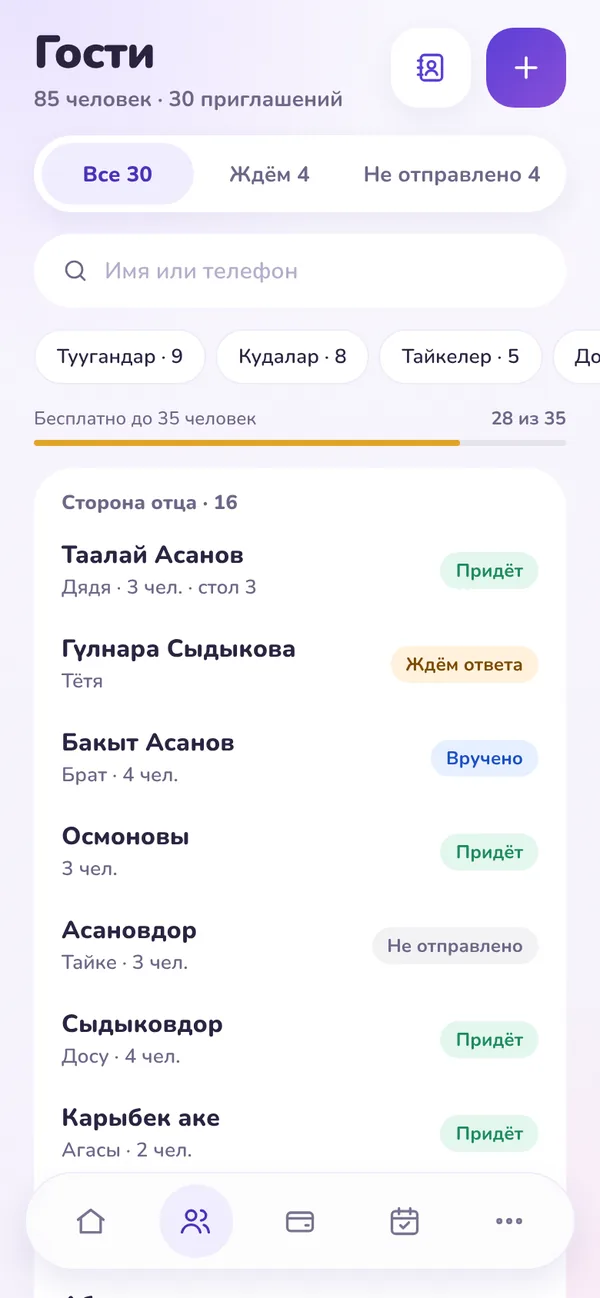
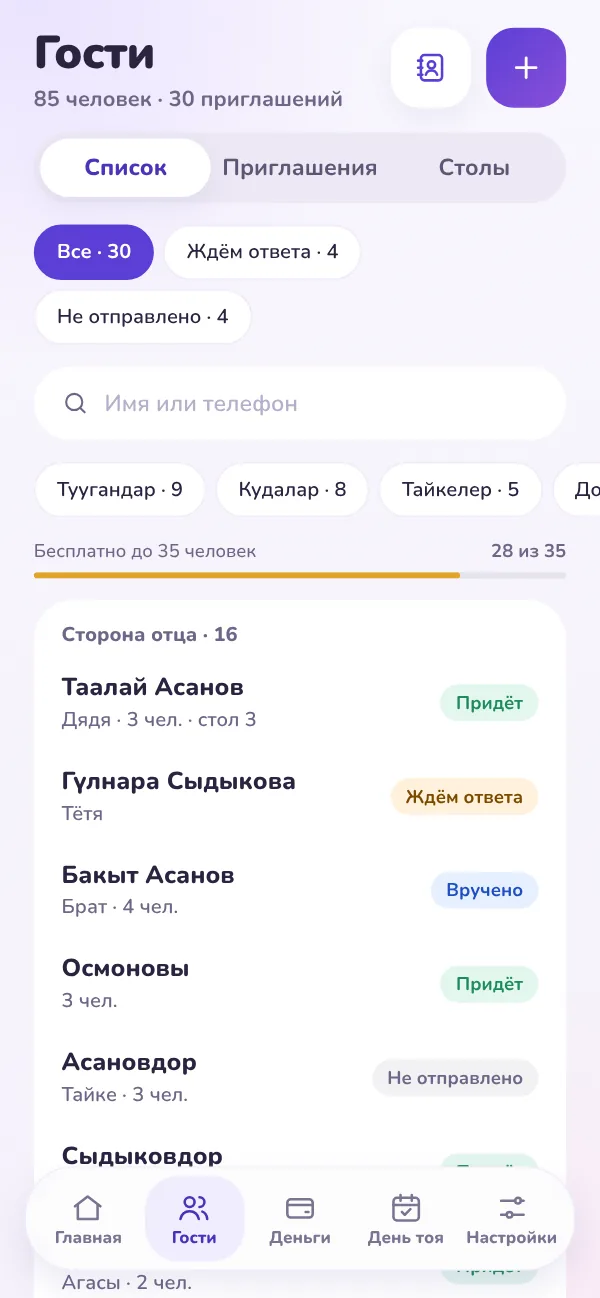
Сайт под новое меню приложения: пути, скриншоты, рассылка приглашений
Claude-Session: https://claude.ai/code/session_01Jx6LeccEXJdHGmuEJJs3tw

diff --git a/ky/index.html b/ky/index.html
@@ -44,7 +44,7 @@
 {"@context": "https://schema.org", "@type": "WebSite", "name": "Той Менеджер", "url": "https://toimanager.app/", "inLanguage": "ky"}
 </script>
 <script type="application/ld+json">
-{"@context": "https://schema.org", "@type": "FAQPage", "inLanguage": "ky", "mainEntity": [{"@type": "Question", "name": "Конокторго тиркемени жүктөп алуу керекпи?", "acceptedAnswer": {"@type": "Answer", "text": "Жок. Конок WhatsApp аркылуу шилтеме алып, аны браузерде ачат жана «Барам» же «Бара албайм» деп жооп берет. Тиркеме сизге жана командаңызга гана керек."}}, {"@type": "Question", "name": "Конокторду столдорго кантип отургузам?", "acceptedAnswer": {"@type": "Answer", "text": "Тиркемеде: Ещё → Рассадка по столам. Столдорду кошуңуз (мисалы, 12 орундуу 8 стол), аларга ат коюп, конокторду отургузуңуз — категория боюнча тандаса болот: кудалар, тайкелер, достор. Үй-бүлөнү ар башка столдорго отургузса болот. Даяр тизме ресторанга бир билдирүү менен жөнөтүлөт."}}, {"@type": "Question", "name": "Конверттердин жана бюджеттин суммасын ким көрөт?", "acceptedAnswer": {"@type": "Answer", "text": "Тойдун ээси жана сиз акчаны көрүүгө уруксат бергендер гана: уюштуруучу жана казыначы. Кире бериштеги жардамчы жана тарап сумманы көрбөйт."}}, {"@type": "Question", "name": "35 кишилик лимит кантип эсептелет?", "acceptedAnswer": {"@type": "Answer", "text": "Бардык чакыруулардагы адамдар эсептелет: 4 кишилик үй-бүлөнү чакырсаңыз, бул 4. Чакыруусуз келип, кире бериште жазылган коноктор лимитке кирбейт."}}, {"@type": "Question", "name": "Безлимитти кантип төлөйм?", "acceptedAnswer": {"@type": "Answer", "text": "Төлөм барагын ачып, банктын тиркемесинде QRды сканерлеп, 990 сом которуңуз. Комментарийге тойдун номерин жазыңыз (тиркемеде: Ещё → Тариф), андан кийин «Төлөдүм» баскычын басыңыз. Биз төлөмдү текшерип, Безлимитти ачабыз."}}, {"@type": "Question", "name": "Бир нече тойду жүргүзсө болобу?", "acceptedAnswer": {"@type": "Answer", "text": "Ооба. Бардык тойлоруңуз «Мои тои» бөлүмүндө, каалаган убакта которула аласыз. Лимит жана Безлимит ар бир той үчүн өзүнчө эсептелет."}}, {"@type": "Question", "name": "iPhone үчүн версиясы барбы?", "acceptedAnswer": {"@type": "Answer", "text": "Адегенде тиркеме Android үчүн Google Playде чыгат. iPhone үчүн версиясы — кийинки кадам."}}, {"@type": "Question", "name": "Тиркеме кайсы тилде?", "acceptedAnswer": {"@type": "Answer", "text": "Тиркеме азырынча орус тилинде, кыргыз тилин кошуп жатабыз. Конокторго арналган чакыруу барагы кыргыз жана орус тилдеринде иштейт."}}, {"@type": "Question", "name": "Маалыматтар кайда сакталат жана аларды өчүрсө болобу?", "acceptedAnswer": {"@type": "Answer", "text": "Маалыматтар корголгон серверде сакталат жана шифрленген түрдө берилет. Биз маалыматтарды сатпайбыз жана жарнамалык тармактарга бербейбиз. Аккаунтту тиркемеде (Ещё → Удалить аккаунт) же суроо-талап боюнча өчүрсө болот. Тиркемеге кирүүнү манжа изи же телефондун PIN-коду менен коргосо болот (Ещё → Аккаунт). Кененирээк — купуялык саясатында (орус тилинде)."}}]}
+{"@context": "https://schema.org", "@type": "FAQPage", "inLanguage": "ky", "mainEntity": [{"@type": "Question", "name": "Конокторго тиркемени жүктөп алуу керекпи?", "acceptedAnswer": {"@type": "Answer", "text": "Жок. Конок WhatsApp аркылуу шилтеме алып, аны браузерде ачат жана «Барам» же «Бара албайм» деп жооп берет. Тиркеме сизге жана командаңызга гана керек."}}, {"@type": "Question", "name": "Конокторду столдорго кантип отургузам?", "acceptedAnswer": {"@type": "Answer", "text": "Тиркемеде: Коноктор → Столдор. Столдорду кошуңуз (мисалы, 12 орундуу 8 стол), аларга ат коюп, конокторду отургузуңуз — категория боюнча тандаса болот: кудалар, тайкелер, достор. Үй-бүлөнү ар башка столдорго отургузса болот. Даяр тизме ресторанга бир билдирүү менен жөнөтүлөт."}}, {"@type": "Question", "name": "Конверттердин жана бюджеттин суммасын ким көрөт?", "acceptedAnswer": {"@type": "Answer", "text": "Тойдун ээси жана сиз акчаны көрүүгө уруксат бергендер гана: уюштуруучу жана казыначы. Кире бериштеги жардамчы жана тарап сумманы көрбөйт."}}, {"@type": "Question", "name": "35 кишилик лимит кантип эсептелет?", "acceptedAnswer": {"@type": "Answer", "text": "Бардык чакыруулардагы адамдар эсептелет: 4 кишилик үй-бүлөнү чакырсаңыз, бул 4. Чакыруусуз келип, кире бериште жазылган коноктор лимитке кирбейт."}}, {"@type": "Question", "name": "Безлимитти кантип төлөйм?", "acceptedAnswer": {"@type": "Answer", "text": "Төлөм барагын ачып, банктын тиркемесинде QRды сканерлеп, 990 сом которуңуз. Комментарийге тойдун номерин жазыңыз (тиркемеде: Жөндөөлөр → Тариф), андан кийин «Төлөдүм» баскычын басыңыз. Биз төлөмдү текшерип, Безлимитти ачабыз."}}, {"@type": "Question", "name": "Бир нече тойду жүргүзсө болобу?", "acceptedAnswer": {"@type": "Answer", "text": "Ооба. Бардык тойлоруңуз башкы экрандагы «Менин тойлорум» баскычында, каалаган убакта которула аласыз. Лимит жана Безлимит ар бир той үчүн өзүнчө эсептелет."}}, {"@type": "Question", "name": "iPhone үчүн версиясы барбы?", "acceptedAnswer": {"@type": "Answer", "text": "Адегенде тиркеме Android үчүн Google Playде чыгат. iPhone үчүн версиясы — кийинки кадам."}}, {"@type": "Question", "name": "Тиркеме кайсы тилде?", "acceptedAnswer": {"@type": "Answer", "text": "Тиркеме азырынча орус тилинде, кыргыз тилин кошуп жатабыз. Конокторго арналган чакыруу барагы кыргыз жана орус тилдеринде иштейт."}}, {"@type": "Question", "name": "Маалыматтар кайда сакталат жана аларды өчүрсө болобу?", "acceptedAnswer": {"@type": "Answer", "text": "Маалыматтар корголгон серверде сакталат жана шифрленген түрдө берилет. Биз маалыматтарды сатпайбыз жана жарнамалык тармактарга бербейбиз. Аккаунтту тиркемеде (Жөндөөлөр → «Удалить аккаунт») же суроо-талап боюнча өчүрсө болот. Тиркемеге кирүүнү манжа изи же телефондун PIN-коду менен коргосо болот (Жөндөөлөр → Аккаунт). Кененирээк — купуялык саясатында (орус тилинде)."}}]}
 </script>
 <script src="../analytics.js" defer></script>
 </head>
@@ -119,7 +119,7 @@
       <div class="center"><span class="kicker">Мүмкүнчүлүктөр</span><h2 class="h2">Тойго чейин, той учурунда жана тойдон кийин керектүүнүн баары</h2></div>
 
       <div class="feature">
-        <div class="shot"><div class="bg"><div class="phone"><img src="../img/guests.webp" alt="«Гости» экраны: тараптар боюнча тизме жана коноктордун жооптору" width="600" height="1298" loading="lazy"></div></div></div>
+        <div class="shot"><div class="bg"><div class="phone"><img src="../img/guests.webp" alt="«Коноктор» → «Тизме»: тараптар боюнча тизме жана коноктордун жооптору" width="600" height="1298" loading="lazy"></div></div></div>
         <div>
           <span class="tag">Коноктор жана чакыруулар</span>
           <h3>Жоголбой турган коноктор тизмеси</h3>
@@ -127,7 +127,7 @@
           <ul class="list">
             <li>Коноктор тараптар жана категориялар боюнча: ата тарап, эне тарап, кесиптештер, кошуналар</li>
             <li>Колго же түз эле телефондогу байланыштардан кошуңуз</li>
-            <li>WhatsApp аркылуу шилтеме менен чакыруу — «жөнөтүлдү» белгиси өзү коюлат</li>
+            <li>WhatsApp аркылуу удаа-удаа, конок артынан конок жөнөтөсүз — конокко кантип кайрылууну текшерип. «Жөнөтүлдү» белгиси өзү коюлат</li>
             <li>Канча киши келерин, ким жооп бере электигин жана кимге жөнөтүлө электигин көрөсүз</li>
           </ul>
         </div>
@@ -150,7 +150,7 @@
       </div>
 
       <div class="feature">
-        <div class="shot"><div class="bg"><div class="phone"><img src="../img/seating.webp" alt="«Рассадка» экраны: номери, аталышы жана толгондугу көрсөтүлгөн столдор" width="600" height="1298" loading="lazy"></div></div></div>
+        <div class="shot"><div class="bg"><div class="phone"><img src="../img/seating.webp" alt="«Коноктор» → «Столдор»: номери, аталышы жана толгондугу көрсөтүлгөн столдор" width="600" height="1298" loading="lazy"></div></div></div>
         <div>
           <span class="tag">Отургузуу</span>
           <h3>Ким кайсы столдо — алдын ала чечилген</h3>
@@ -165,7 +165,7 @@
       </div>
 
       <div class="feature flip">
-        <div class="shot"><div class="bg"><div class="phone"><img src="../img/day.webp" alt="«У входа» экраны: конокту издөө жана «келди» баскычы" width="600" height="1298" loading="lazy"></div></div></div>
+        <div class="shot"><div class="bg"><div class="phone"><img src="../img/day.webp" alt="«Той күнү» өтмөгү: конокту издөө жана «келди» баскычы" width="600" height="1298" loading="lazy"></div></div></div>
         <div>
           <span class="tag">Той күнү</span>
           <h3>Кире бериште — дептердин ордуна телефон</h3>
@@ -180,7 +180,7 @@
       </div>
 
       <div class="feature">
-        <div class="shot"><div class="bg"><div class="phone"><img src="../img/envelopes.webp" alt="«Конверты» экраны: номерлер, коноктор жана суммалар" width="600" height="1298" loading="lazy"></div></div></div>
+        <div class="shot"><div class="bg"><div class="phone"><img src="../img/envelopes.webp" alt="«Акча» → «Конверттер»: номерлер, коноктор жана суммалар" width="600" height="1298" loading="lazy"></div></div></div>
         <div>
           <span class="tag">Конверттер</span>
           <h3>Ким канча берди — талашсыз</h3>
@@ -195,7 +195,7 @@
       </div>
 
       <div class="feature flip">
-        <div class="shot"><div class="bg"><div class="phone"><img src="../img/budget.webp" alt="«Бюджет» экраны: төлөнгөнү, калганы жана жакынкы төлөмдөр" width="600" height="1298" loading="lazy"></div></div></div>
+        <div class="shot"><div class="bg"><div class="phone"><img src="../img/budget.webp" alt="«Акча» → «Бюджет»: төлөнгөнү, калганы жана жакынкы төлөмдөр" width="600" height="1298" loading="lazy"></div></div></div>
         <div>
           <span class="tag">Бюджет</span>
           <h3>Аванстар жана төлөмдөр көзөмөлдө</h3>
@@ -272,7 +272,7 @@
           <a class="btn btn-primary" href="../pro/?lang=ky" data-ev="pricing_pay_click">Кантип төлөө керек</a>
         </div>
       </div>
-      <p class="note">Чакыруулар эмес, адамдар эсептелет: 4 кишилик үй-бүлөгө бир чакыруу — бул 4. Лимит жана тойдун номери тиркемеде: Ещё → Тариф.</p>
+      <p class="note">Чакыруулар эмес, адамдар эсептелет: 4 кишилик үй-бүлөгө бир чакыруу — бул 4. Лимит жана тойдун номери тиркемеде: Жөндөөлөр → Тариф.</p>
     </div>
   </section>
 
@@ -282,14 +282,14 @@
       <div class="center"><span class="kicker">Суроолор</span><h2 class="h2">Көп берилүүчү суроолор</h2></div>
       <div class="faq">
         <details><summary>Конокторго тиркемени жүктөп алуу керекпи?</summary><p>Жок. Конок WhatsApp аркылуу шилтеме алып, аны браузерде ачат жана «Барам» же «Бара албайм» деп жооп берет. Тиркеме сизге жана командаңызга гана керек.</p></details>
-        <details><summary>Конокторду столдорго кантип отургузам?</summary><p>Тиркемеде: Ещё → Рассадка по столам. Столдорду кошуңуз (мисалы, 12 орундуу 8 стол), аларга ат коюп, конокторду отургузуңуз — категория боюнча тандаса болот: кудалар, тайкелер, достор. Үй-бүлөнү ар башка столдорго отургузса болот. Даяр тизме ресторанга бир билдирүү менен жөнөтүлөт.</p></details>
+        <details><summary>Конокторду столдорго кантип отургузам?</summary><p>Тиркемеде: Коноктор → Столдор. Столдорду кошуңуз (мисалы, 12 орундуу 8 стол), аларга ат коюп, конокторду отургузуңуз — категория боюнча тандаса болот: кудалар, тайкелер, достор. Үй-бүлөнү ар башка столдорго отургузса болот. Даяр тизме ресторанга бир билдирүү менен жөнөтүлөт.</p></details>
         <details><summary>Конверттердин жана бюджеттин суммасын ким көрөт?</summary><p>Тойдун ээси жана сиз акчаны көрүүгө уруксат бергендер гана: уюштуруучу жана казыначы. Кире бериштеги жардамчы жана тарап сумманы көрбөйт.</p></details>
         <details><summary>35 кишилик лимит кантип эсептелет?</summary><p>Бардык чакыруулардагы адамдар эсептелет: 4 кишилик үй-бүлөнү чакырсаңыз, бул 4. Чакыруусуз келип, кире бериште жазылган коноктор лимитке кирбейт.</p></details>
-        <details><summary>Безлимитти кантип төлөйм?</summary><p><a href="../pro/?lang=ky">Төлөм барагын</a> ачып, банктын тиркемесинде QRды сканерлеп, 990 сом которуңуз. Комментарийге тойдун номерин жазыңыз (тиркемеде: Ещё → Тариф), андан кийин «Төлөдүм» баскычын басыңыз. Биз төлөмдү текшерип, Безлимитти ачабыз.</p></details>
-        <details><summary>Бир нече тойду жүргүзсө болобу?</summary><p>Ооба. Бардык тойлоруңуз «Мои тои» бөлүмүндө, каалаган убакта которула аласыз. Лимит жана Безлимит ар бир той үчүн өзүнчө эсептелет.</p></details>
+        <details><summary>Безлимитти кантип төлөйм?</summary><p><a href="../pro/?lang=ky">Төлөм барагын</a> ачып, банктын тиркемесинде QRды сканерлеп, 990 сом которуңуз. Комментарийге тойдун номерин жазыңыз (тиркемеде: Жөндөөлөр → Тариф), андан кийин «Төлөдүм» баскычын басыңыз. Биз төлөмдү текшерип, Безлимитти ачабыз.</p></details>
+        <details><summary>Бир нече тойду жүргүзсө болобу?</summary><p>Ооба. Бардык тойлоруңуз башкы экрандагы «Менин тойлорум» баскычында, каалаган убакта которула аласыз. Лимит жана Безлимит ар бир той үчүн өзүнчө эсептелет.</p></details>
         <details><summary>iPhone үчүн версиясы барбы?</summary><p>Адегенде тиркеме Android үчүн Google Playде чыгат. iPhone үчүн версиясы — кийинки кадам.</p></details>
         <details><summary>Тиркеме кайсы тилде?</summary><p>Тиркеме азырынча орус тилинде, кыргыз тилин кошуп жатабыз. Конокторго арналган чакыруу барагы кыргыз жана орус тилдеринде иштейт.</p></details>
-        <details><summary>Маалыматтар кайда сакталат жана аларды өчүрсө болобу?</summary><p>Маалыматтар корголгон серверде сакталат жана шифрленген түрдө берилет. Биз маалыматтарды сатпайбыз жана жарнамалык тармактарга бербейбиз. Аккаунтту тиркемеде (Ещё → Удалить аккаунт) же <a href="../delete-account/">суроо-талап боюнча</a> өчүрсө болот. Тиркемеге кирүүнү манжа изи же телефондун PIN-коду менен коргосо болот (Ещё → Аккаунт). Кененирээк — <a href="../privacy/">купуялык саясатында</a> (орус тилинде).</p></details>
+        <details><summary>Маалыматтар кайда сакталат жана аларды өчүрсө болобу?</summary><p>Маалыматтар корголгон серверде сакталат жана шифрленген түрдө берилет. Биз маалыматтарды сатпайбыз жана жарнамалык тармактарга бербейбиз. Аккаунтту тиркемеде (Жөндөөлөр → «Удалить аккаунт») же <a href="../delete-account/">суроо-талап боюнча</a> өчүрсө болот. Тиркемеге кирүүнү манжа изи же телефондун PIN-коду менен коргосо болот (Жөндөөлөр → Аккаунт). Кененирээк — <a href="../privacy/">купуялык саясатында</a> (орус тилинде).</p></details>
       </div>
     </div>
   </section>

diff --git a/index.html b/index.html
@@ -41,7 +41,7 @@
 {"@context": "https://schema.org", "@type": "WebSite", "name": "Той Менеджер", "url": "https://toimanager.app/", "inLanguage": "ru"}
 </script>
 <script type="application/ld+json">
-{"@context": "https://schema.org", "@type": "FAQPage", "inLanguage": "ru", "mainEntity": [{"@type": "Question", "name": "Нужно ли гостям скачивать приложение?", "acceptedAnswer": {"@type": "Answer", "text": "Нет. Гость получает в WhatsApp ссылку, открывает её в браузере и отвечает «Приду» или «Не смогу». Приложение нужно только вам и вашей команде."}}, {"@type": "Question", "name": "Как рассадить гостей по столам?", "acceptedAnswer": {"@type": "Answer", "text": "В приложении: Ещё → Рассадка по столам. Добавьте столы (например, 8 по 12 мест), дайте им названия и посадите гостей — можно отбирать по категории: кудалар, тайкелер, достор. Семью можно посадить за разные столы. Готовый список отправляется в ресторан одним сообщением."}}, {"@type": "Question", "name": "Кто увидит суммы конвертов и бюджета?", "acceptedAnswer": {"@type": "Answer", "text": "Только владелец тоя и те, кому вы дали право видеть деньги: организатор и казначей. Помощник у входа и сторона сумм не видят."}}, {"@type": "Question", "name": "Как считается лимит в 35 человек?", "acceptedAnswer": {"@type": "Answer", "text": "Считаются люди во всех приглашениях: если пригласили семью из 4 человек, это 4. Гости, которые пришли без приглашения и записаны у входа, в лимит не входят."}}, {"@type": "Question", "name": "Как оплатить Безлимит?", "acceptedAnswer": {"@type": "Answer", "text": "Откройте страницу оплаты, отсканируйте QR в приложении банка и переведите 990 сом. В комментарии укажите номер тоя (в приложении: Ещё → Тариф), затем нажмите «Я оплатил». Мы проверим платёж и откроем Безлимит."}}, {"@type": "Question", "name": "Можно ли вести несколько тоев?", "acceptedAnswer": {"@type": "Answer", "text": "Да. Все ваши тои — в разделе «Мои тои», переключаться можно в любой момент. Лимит и Безлимит считаются отдельно для каждого тоя."}}, {"@type": "Question", "name": "Есть ли версия для iPhone?", "acceptedAnswer": {"@type": "Answer", "text": "Сначала приложение выходит в Google Play для Android. Версия для iPhone — следующим шагом."}}, {"@type": "Question", "name": "На каком языке приложение?", "acceptedAnswer": {"@type": "Answer", "text": "Приложение — на русском, кыргызский язык добавляем. Страница приглашения для гостей уже работает на кыргызском и русском."}}, {"@type": "Question", "name": "Где хранятся данные и можно ли их удалить?", "acceptedAnswer": {"@type": "Answer", "text": "Данные хранятся на защищённом сервере и передаются в зашифрованном виде. Мы не продаём данные и не передаём их рекламным сетям. Удалить аккаунт можно в приложении (Ещё → Удалить аккаунт) или по запросу. Вход в приложение можно защитить отпечатком пальца или PIN-кодом телефона (Ещё → Аккаунт). Подробнее — в политике конфиденциальности."}}]}
+{"@context": "https://schema.org", "@type": "FAQPage", "inLanguage": "ru", "mainEntity": [{"@type": "Question", "name": "Нужно ли гостям скачивать приложение?", "acceptedAnswer": {"@type": "Answer", "text": "Нет. Гость получает в WhatsApp ссылку, открывает её в браузере и отвечает «Приду» или «Не смогу». Приложение нужно только вам и вашей команде."}}, {"@type": "Question", "name": "Как рассадить гостей по столам?", "acceptedAnswer": {"@type": "Answer", "text": "В приложении: Гости → Столы. Добавьте столы (например, 8 по 12 мест), дайте им названия и посадите гостей — можно отбирать по категории: кудалар, тайкелер, достор. Семью можно посадить за разные столы. Готовый список отправляется в ресторан одним сообщением."}}, {"@type": "Question", "name": "Кто увидит суммы конвертов и бюджета?", "acceptedAnswer": {"@type": "Answer", "text": "Только владелец тоя и те, кому вы дали право видеть деньги: организатор и казначей. Помощник у входа и сторона сумм не видят."}}, {"@type": "Question", "name": "Как считается лимит в 35 человек?", "acceptedAnswer": {"@type": "Answer", "text": "Считаются люди во всех приглашениях: если пригласили семью из 4 человек, это 4. Гости, которые пришли без приглашения и записаны у входа, в лимит не входят."}}, {"@type": "Question", "name": "Как оплатить Безлимит?", "acceptedAnswer": {"@type": "Answer", "text": "Откройте страницу оплаты, отсканируйте QR в приложении банка и переведите 990 сом. В комментарии укажите номер тоя (в приложении: Настройки → Тариф), затем нажмите «Я оплатил». Мы проверим платёж и откроем Безлимит."}}, {"@type": "Question", "name": "Можно ли вести несколько тоев?", "acceptedAnswer": {"@type": "Answer", "text": "Да. Все ваши тои — под кнопкой «Мои тои» на главном экране, переключаться можно в любой момент. Лимит и Безлимит считаются отдельно для каждого тоя."}}, {"@type": "Question", "name": "Есть ли версия для iPhone?", "acceptedAnswer": {"@type": "Answer", "text": "Сначала приложение выходит в Google Play для Android. Версия для iPhone — следующим шагом."}}, {"@type": "Question", "name": "На каком языке приложение?", "acceptedAnswer": {"@type": "Answer", "text": "Приложение — на русском, кыргызский язык добавляем. Страница приглашения для гостей уже работает на кыргызском и русском."}}, {"@type": "Question", "name": "Где хранятся данные и можно ли их удалить?", "acceptedAnswer": {"@type": "Answer", "text": "Данные хранятся на защищённом сервере и передаются в зашифрованном виде. Мы не продаём данные и не передаём их рекламным сетям. Удалить аккаунт можно в приложении (Настройки → Удалить аккаунт) или по запросу. Вход в приложение можно защитить отпечатком пальца или PIN-кодом телефона (Настройки → Аккаунт). Подробнее — в политике конфиденциальности."}}]}
 </script>
 <script src="analytics.js" defer></script>
 </head>
@@ -116,7 +116,7 @@
       <div class="center"><span class="kicker">Возможности</span><h2 class="h2">Всё, что нужно до, во время и после тоя</h2></div>
 
       <div class="feature">
-        <div class="shot"><div class="bg"><div class="phone"><img src="img/guests.webp" alt="Экран «Гости»: список по сторонам с ответами гостей" width="600" height="1298" loading="lazy"></div></div></div>
+        <div class="shot"><div class="bg"><div class="phone"><img src="img/guests.webp" alt="Вкладка «Гости» → «Список»: гости по сторонам с ответами" width="600" height="1298" loading="lazy"></div></div></div>
         <div>
           <span class="tag">Гости и приглашения</span>
           <h3>Список гостей, который не потеряется</h3>
@@ -124,7 +124,7 @@
           <ul class="list">
             <li>Гости по сторонам и категориям: сторона отца, сторона матери, коллеги, соседи</li>
             <li>Добавляйте вручную или сразу из контактов телефона</li>
-            <li>Приглашение в WhatsApp со ссылкой — отметка «отправлено» ставится сама</li>
+            <li>Рассылка в WhatsApp подряд, гость за гостем — с проверкой, как обратиться к гостю. Отметка «отправлено» ставится сама</li>
             <li>Видно, сколько человек придёт, кто ещё не ответил и кому не отправили</li>
           </ul>
         </div>
@@ -147,7 +147,7 @@
       </div>
 
       <div class="feature">
-        <div class="shot"><div class="bg"><div class="phone"><img src="img/seating.webp" alt="Экран «Рассадка»: столы с номерами, названиями и заполненностью" width="600" height="1298" loading="lazy"></div></div></div>
+        <div class="shot"><div class="bg"><div class="phone"><img src="img/seating.webp" alt="Вкладка «Гости» → «Столы»: столы с номерами, названиями и заполненностью" width="600" height="1298" loading="lazy"></div></div></div>
         <div>
           <span class="tag">Рассадка</span>
           <h3>Кто за каким столом — решено заранее</h3>
@@ -162,7 +162,7 @@
       </div>
 
       <div class="feature flip">
-        <div class="shot"><div class="bg"><div class="phone"><img src="img/day.webp" alt="Экран «У входа»: поиск гостя и кнопка «Пришли»" width="600" height="1298" loading="lazy"></div></div></div>
+        <div class="shot"><div class="bg"><div class="phone"><img src="img/day.webp" alt="Вкладка «День тоя»: поиск гостя и кнопка «Пришли»" width="600" height="1298" loading="lazy"></div></div></div>
         <div>
           <span class="tag">День тоя</span>
           <h3>У входа — телефон вместо тетради</h3>
@@ -177,7 +177,7 @@
       </div>
 
       <div class="feature">
-        <div class="shot"><div class="bg"><div class="phone"><img src="img/envelopes.webp" alt="Экран «Конверты»: номера, гости и суммы" width="600" height="1298" loading="lazy"></div></div></div>
+        <div class="shot"><div class="bg"><div class="phone"><img src="img/envelopes.webp" alt="Вкладка «Деньги» → «Конверты»: номера, гости и суммы" width="600" height="1298" loading="lazy"></div></div></div>
         <div>
           <span class="tag">Конверты</span>
           <h3>Кто сколько подарил — без споров</h3>
@@ -192,7 +192,7 @@
       </div>
 
       <div class="feature flip">
-        <div class="shot"><div class="bg"><div class="phone"><img src="img/budget.webp" alt="Экран «Бюджет»: оплачено, остаток и ближайшие платежи" width="600" height="1298" loading="lazy"></div></div></div>
+        <div class="shot"><div class="bg"><div class="phone"><img src="img/budget.webp" alt="Вкладка «Деньги» → «Бюджет»: оплачено, остаток и ближайшие платежи" width="600" height="1298" loading="lazy"></div></div></div>
         <div>
           <span class="tag">Бюджет</span>
           <h3>Авансы и платежи под контролем</h3>
@@ -269,7 +269,7 @@
           <a class="btn btn-primary" href="pro/" data-ev="pricing_pay_click">Как оплатить</a>
         </div>
       </div>
-      <p class="note">Считаются люди, а не приглашения: приглашение на семью из 4 человек — это 4. Лимит и номер тоя видны в приложении: Ещё → Тариф.</p>
+      <p class="note">Считаются люди, а не приглашения: приглашение на семью из 4 человек — это 4. Лимит и номер тоя видны в приложении: Настройки → Тариф.</p>
     </div>
   </section>
 
@@ -279,14 +279,14 @@
       <div class="center"><span class="kicker">Вопросы</span><h2 class="h2">Частые вопросы</h2></div>
       <div class="faq">
         <details><summary>Нужно ли гостям скачивать приложение?</summary><p>Нет. Гость получает в WhatsApp ссылку, открывает её в браузере и отвечает «Приду» или «Не смогу». Приложение нужно только вам и вашей команде.</p></details>
-        <details><summary>Как рассадить гостей по столам?</summary><p>В приложении: Ещё → Рассадка по столам. Добавьте столы (например, 8 по 12 мест), дайте им названия и посадите гостей — можно отбирать по категории: кудалар, тайкелер, достор. Семью можно посадить за разные столы. Готовый список отправляется в ресторан одним сообщением.</p></details>
+        <details><summary>Как рассадить гостей по столам?</summary><p>В приложении: Гости → Столы. Добавьте столы (например, 8 по 12 мест), дайте им названия и посадите гостей — можно отбирать по категории: кудалар, тайкелер, достор. Семью можно посадить за разные столы. Готовый список отправляется в ресторан одним сообщением.</p></details>
         <details><summary>Кто увидит суммы конвертов и бюджета?</summary><p>Только владелец тоя и те, кому вы дали право видеть деньги: организатор и казначей. Помощник у входа и сторона сумм не видят.</p></details>
         <details><summary>Как считается лимит в 35 человек?</summary><p>Считаются люди во всех приглашениях: если пригласили семью из 4 человек, это 4. Гости, которые пришли без приглашения и записаны у входа, в лимит не входят.</p></details>
-        <details><summary>Как оплатить Безлимит?</summary><p>Откройте страницу <a href="pro/">оплаты</a>, отсканируйте QR в приложении банка и переведите 990 сом. В комментарии укажите номер тоя (в приложении: Ещё → Тариф), затем нажмите «Я оплатил». Мы проверим платёж и откроем Безлимит.</p></details>
-        <details><summary>Можно ли вести несколько тоев?</summary><p>Да. Все ваши тои — в разделе «Мои тои», переключаться можно в любой момент. Лимит и Безлимит считаются отдельно для каждого тоя.</p></details>
+        <details><summary>Как оплатить Безлимит?</summary><p>Откройте страницу <a href="pro/">оплаты</a>, отсканируйте QR в приложении банка и переведите 990 сом. В комментарии укажите номер тоя (в приложении: Настройки → Тариф), затем нажмите «Я оплатил». Мы проверим платёж и откроем Безлимит.</p></details>
+        <details><summary>Можно ли вести несколько тоев?</summary><p>Да. Все ваши тои — под кнопкой «Мои тои» на главном экране, переключаться можно в любой момент. Лимит и Безлимит считаются отдельно для каждого тоя.</p></details>
         <details><summary>Есть ли версия для iPhone?</summary><p>Сначала приложение выходит в Google Play для Android. Версия для iPhone — следующим шагом.</p></details>
         <details><summary>На каком языке приложение?</summary><p>Приложение — на русском, кыргызский язык добавляем. Страница приглашения для гостей уже работает на кыргызском и русском.</p></details>
-        <details><summary>Где хранятся данные и можно ли их удалить?</summary><p>Данные хранятся на защищённом сервере и передаются в зашифрованном виде. Мы не продаём данные и не передаём их рекламным сетям. Удалить аккаунт можно в приложении (Ещё → Удалить аккаунт) или <a href="delete-account/">по запросу</a>. Вход в приложение можно защитить отпечатком пальца или PIN-кодом телефона (Ещё → Аккаунт). Подробнее — в <a href="privacy/">политике конфиденциальности</a>.</p></details>
+        <details><summary>Где хранятся данные и можно ли их удалить?</summary><p>Данные хранятся на защищённом сервере и передаются в зашифрованном виде. Мы не продаём данные и не передаём их рекламным сетям. Удалить аккаунт можно в приложении (Настройки → Удалить аккаунт) или <a href="delete-account/">по запросу</a>. Вход в приложение можно защитить отпечатком пальца или PIN-кодом телефона (Настройки → Аккаунт). Подробнее — в <a href="privacy/">политике конфиденциальности</a>.</p></details>
       </div>
     </div>
   </section>

diff --git a/pro/index.html b/pro/index.html
@@ -65,7 +65,7 @@
     <div>
       <label class="flabel" for="num" data-t="numLabel">Номер тоя</label>
       <input class="num-input" id="num" inputmode="numeric" autocomplete="off" maxlength="7" placeholder="000 000">
-      <p class="muted" style="font-size:14px;margin-top:8px" data-t="numHint">В приложении: Ещё → Тариф. Когда гостей становится много, номер показывается и в карточке лимита.</p>
+      <p class="muted" style="font-size:14px;margin-top:8px" data-t="numHint">В приложении: Настройки → Тариф. Когда гостей становится много, номер показывается и в карточке лимита.</p>
     </div>
     <button class="btn btn-primary" type="button" id="find" data-t="find">Продолжить</button>
     <p class="err" id="findErr" role="alert" hidden></p>
@@ -156,7 +156,7 @@
   const T = {
     ru: {
       title: 'Безлимит для тоя', lead: 'Сколько угодно гостей в вашем тое. Действует год — на подготовку, сам той и подсчёт конвертов.',
-      numLabel: 'Номер тоя', numHint: 'В приложении: Ещё → Тариф. Когда гостей становится много, номер показывается и в карточке лимита.',
+      numLabel: 'Номер тоя', numHint: 'В приложении: Настройки → Тариф. Когда гостей становится много, номер показывается и в карточке лимита.',
       find: 'Продолжить', finding: 'Ищем…', other: 'Другой номер', toiLabel: 'Той',
       notFound: 'Той с таким номером не найден. Проверьте 6 цифр.', numBad: 'Номер тоя — 6 цифр', loadError: 'Не удалось загрузить. Проверьте интернет.',
       people: (p, l) => p >= l ? `В списке ${p} из ${l} бесплатных — лимит исчерпан` : `В списке ${p} из ${l} бесплатных`,
@@ -184,7 +184,7 @@
     },
     ky: {
       title: 'Той үчүн чексиз', lead: 'Тойго каалагандай конок кошуңуз. Бир жылга жарактуу — даярдыкка, тойдун өзүнө жана конверттерди эсептөөгө.',
-      numLabel: 'Тойдун номери', numHint: 'Тиркемеде: Ещё → Тариф. Коноктор көбөйгөндө номер лимит карточкасында да көрүнөт.',
+      numLabel: 'Тойдун номери', numHint: 'Тиркемеде: Настройки → Тариф. Коноктор көбөйгөндө номер лимит карточкасында да көрүнөт.',
       find: 'Улантуу', finding: 'Изделүүдө…', other: 'Башка номер', toiLabel: 'Той',
       notFound: 'Мындай номердеги той табылган жок. 6 санды текшериңиз.', numBad: 'Тойдун номери — 6 сан', loadError: 'Жүктөлгөн жок. Интернетти текшериңиз.',
       people: (p, l) => p >= l ? `Тизмеде ${p} / ${l} акысыз — лимит бүттү` : `Тизмеде ${p} / ${l} акысыз`,

diff --git a/privacy/index.html b/privacy/index.html
@@ -63,7 +63,7 @@
     <p>Пока у вас есть аккаунт. После удаления аккаунта данные удаляются сразу; из резервных копий — в течение 30 дней. Записи об оплате (номер тоя, сумма, дата) храним столько, сколько требует налоговое законодательство.</p>
 
     <h2>Удаление аккаунта и данных</h2>
-    <p>В приложении: <b>Ещё → Удалить аккаунт</b>. Если вы владелец тоя и в команде есть организатор — той перейдёт к нему, иначе той удаляется целиком. Удалить данные без доступа к приложению можно по запросу — подробнее на странице <a href="../delete-account/">удаления аккаунта</a>.</p>
+    <p>В приложении: <b>Настройки → Удалить аккаунт</b>. Если вы владелец тоя и в команде есть организатор — той перейдёт к нему, иначе той удаляется целиком. Удалить данные без доступа к приложению можно по запросу — подробнее на странице <a href="../delete-account/">удаления аккаунта</a>.</p>
 
     <h2>Ваши права</h2>
     <p>Вы можете запросить копию своих данных, исправить или удалить их, написав на <a href="mailto:toimanager.app@gmail.com">toimanager.app@gmail.com</a>. Ответим в течение 30 дней.</p>

diff --git a/ky/tojgo-chakyruu/index.html b/ky/tojgo-chakyruu/index.html
@@ -79,7 +79,7 @@
   <li>Конокторду кошуңуз — колго же телефондогу байланыштардан.</li>
   <li>Коноктун карточкасында WhatsApp баскычын басыңыз: шилтемеси бар билдирүү ачылат. Жөнөткөндөн кийин «Отправлено» белгиси коюлат.</li>
 </ol>
-<p class="app-tip"><b>Тиркемеде:</b> Ещё → Приглашение-открытка — шаблон, музыка, тексттер жана тилектер.</p>
+<p class="app-tip"><b>Тиркемеде:</b> Коноктор → Чакыруулар — шаблон, музыка, тексттер жана тилектер. Ошол эле жерден WhatsApp аркылуу удаа-удаа жөнөтөсүз.</p>
 <p>Убакытты же жерди өзгөртсөңүз, кайра жөнөтүүнүн кереги жок: ошол эле шилтеме боюнча конок жаңы маалыматты көрөт.</p>
 <h2>Канча турат</h2>
 <p>Чакыруулар тиркемеге кирет. Коноктор тизмесинде 35 кишиге чейин — акысыз. Чоң той үчүн «Безлимит» бар: бир той үчүн бир жолу 990 сом.</p>

diff --git a/priglashenie-na-toi/index.html b/priglashenie-na-toi/index.html
@@ -79,7 +79,7 @@
   <li>Добавьте гостей — вручную или из контактов телефона.</li>
   <li>В карточке гостя нажмите WhatsApp: откроется сообщение со ссылкой. После отправки у гостя ставится отметка «Отправлено».</li>
 </ol>
-<p class="app-tip"><b>В приложении:</b> Ещё → Приглашение-открытка — шаблон, музыка, тексты и пожелания.</p>
+<p class="app-tip"><b>В приложении:</b> Гости → Приглашения → «Изменить» — шаблон, музыка, тексты и пожелания. Там же — рассылка в WhatsApp подряд, гость за гостем.</p>
 <p>Если вы изменили время или место, отправлять заново не нужно: по той же ссылке гость увидит новые данные.</p>
 <h2>Сколько стоит</h2>
 <p>Приглашения входят в приложение. Бесплатно — до 35 человек в списке гостей. Для большого тоя есть «Безлимит»: 990 сом один раз за той.</p>

diff --git a/delete-account/index.html b/delete-account/index.html
@@ -21,7 +21,7 @@
     <h2>В приложении (сразу)</h2>
     <ul>
       <li>Откройте приложение «Той Менеджер».</li>
-      <li>Вкладка <b>Ещё</b> → <b>Удалить аккаунт</b>.</li>
+      <li>Вкладка <b>Настройки</b> → <b>Удалить аккаунт</b>.</li>
       <li>Проверьте, что будет с вашими тоями, и подтвердите удаление.</li>
     </ul>
 
